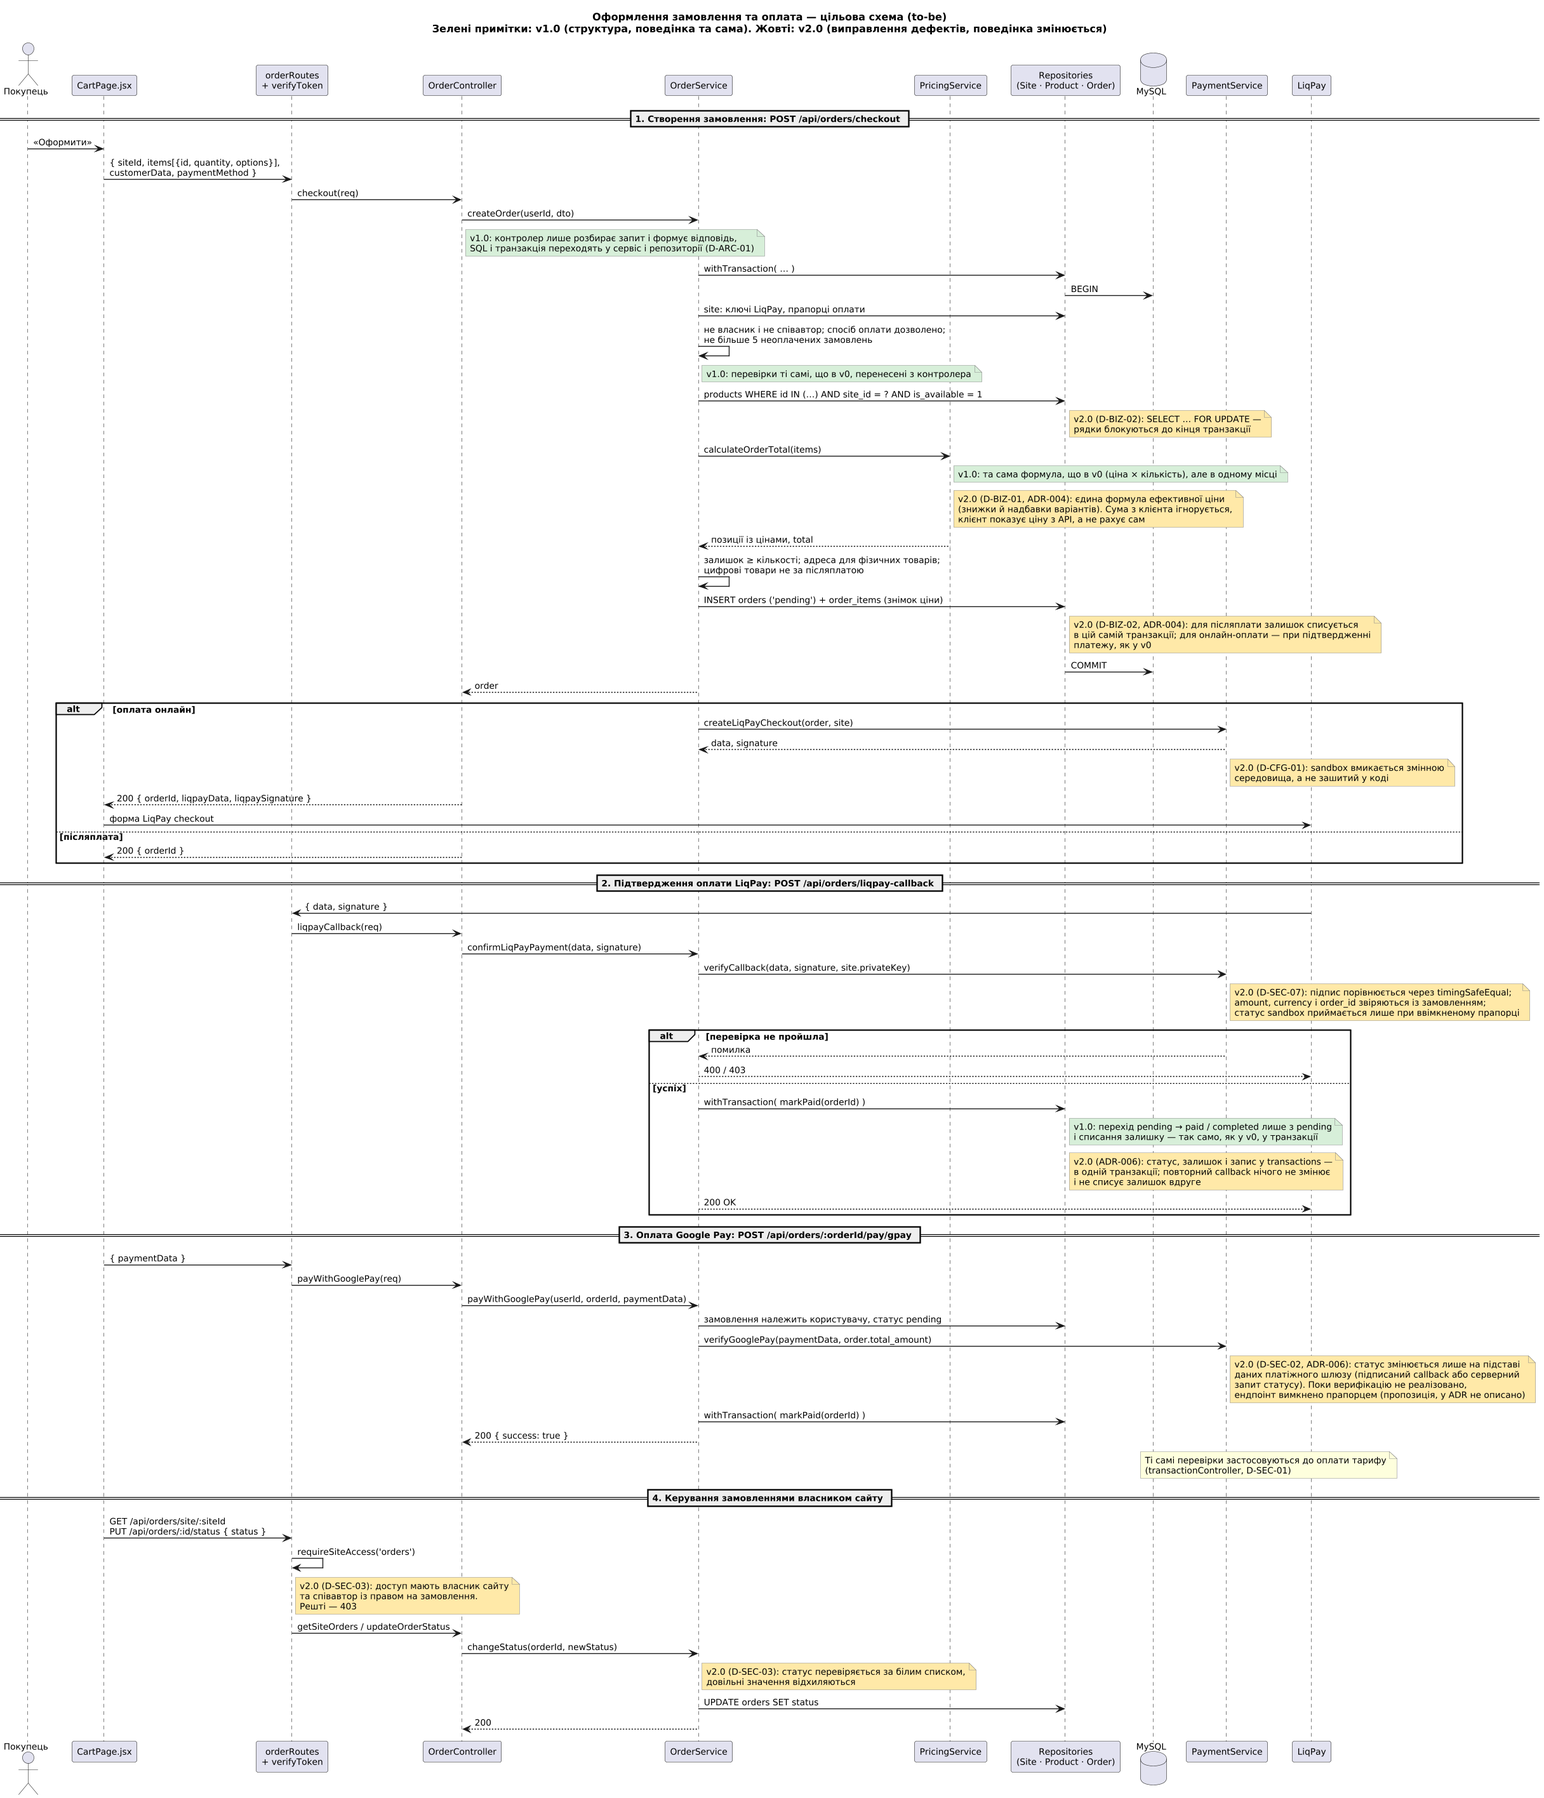
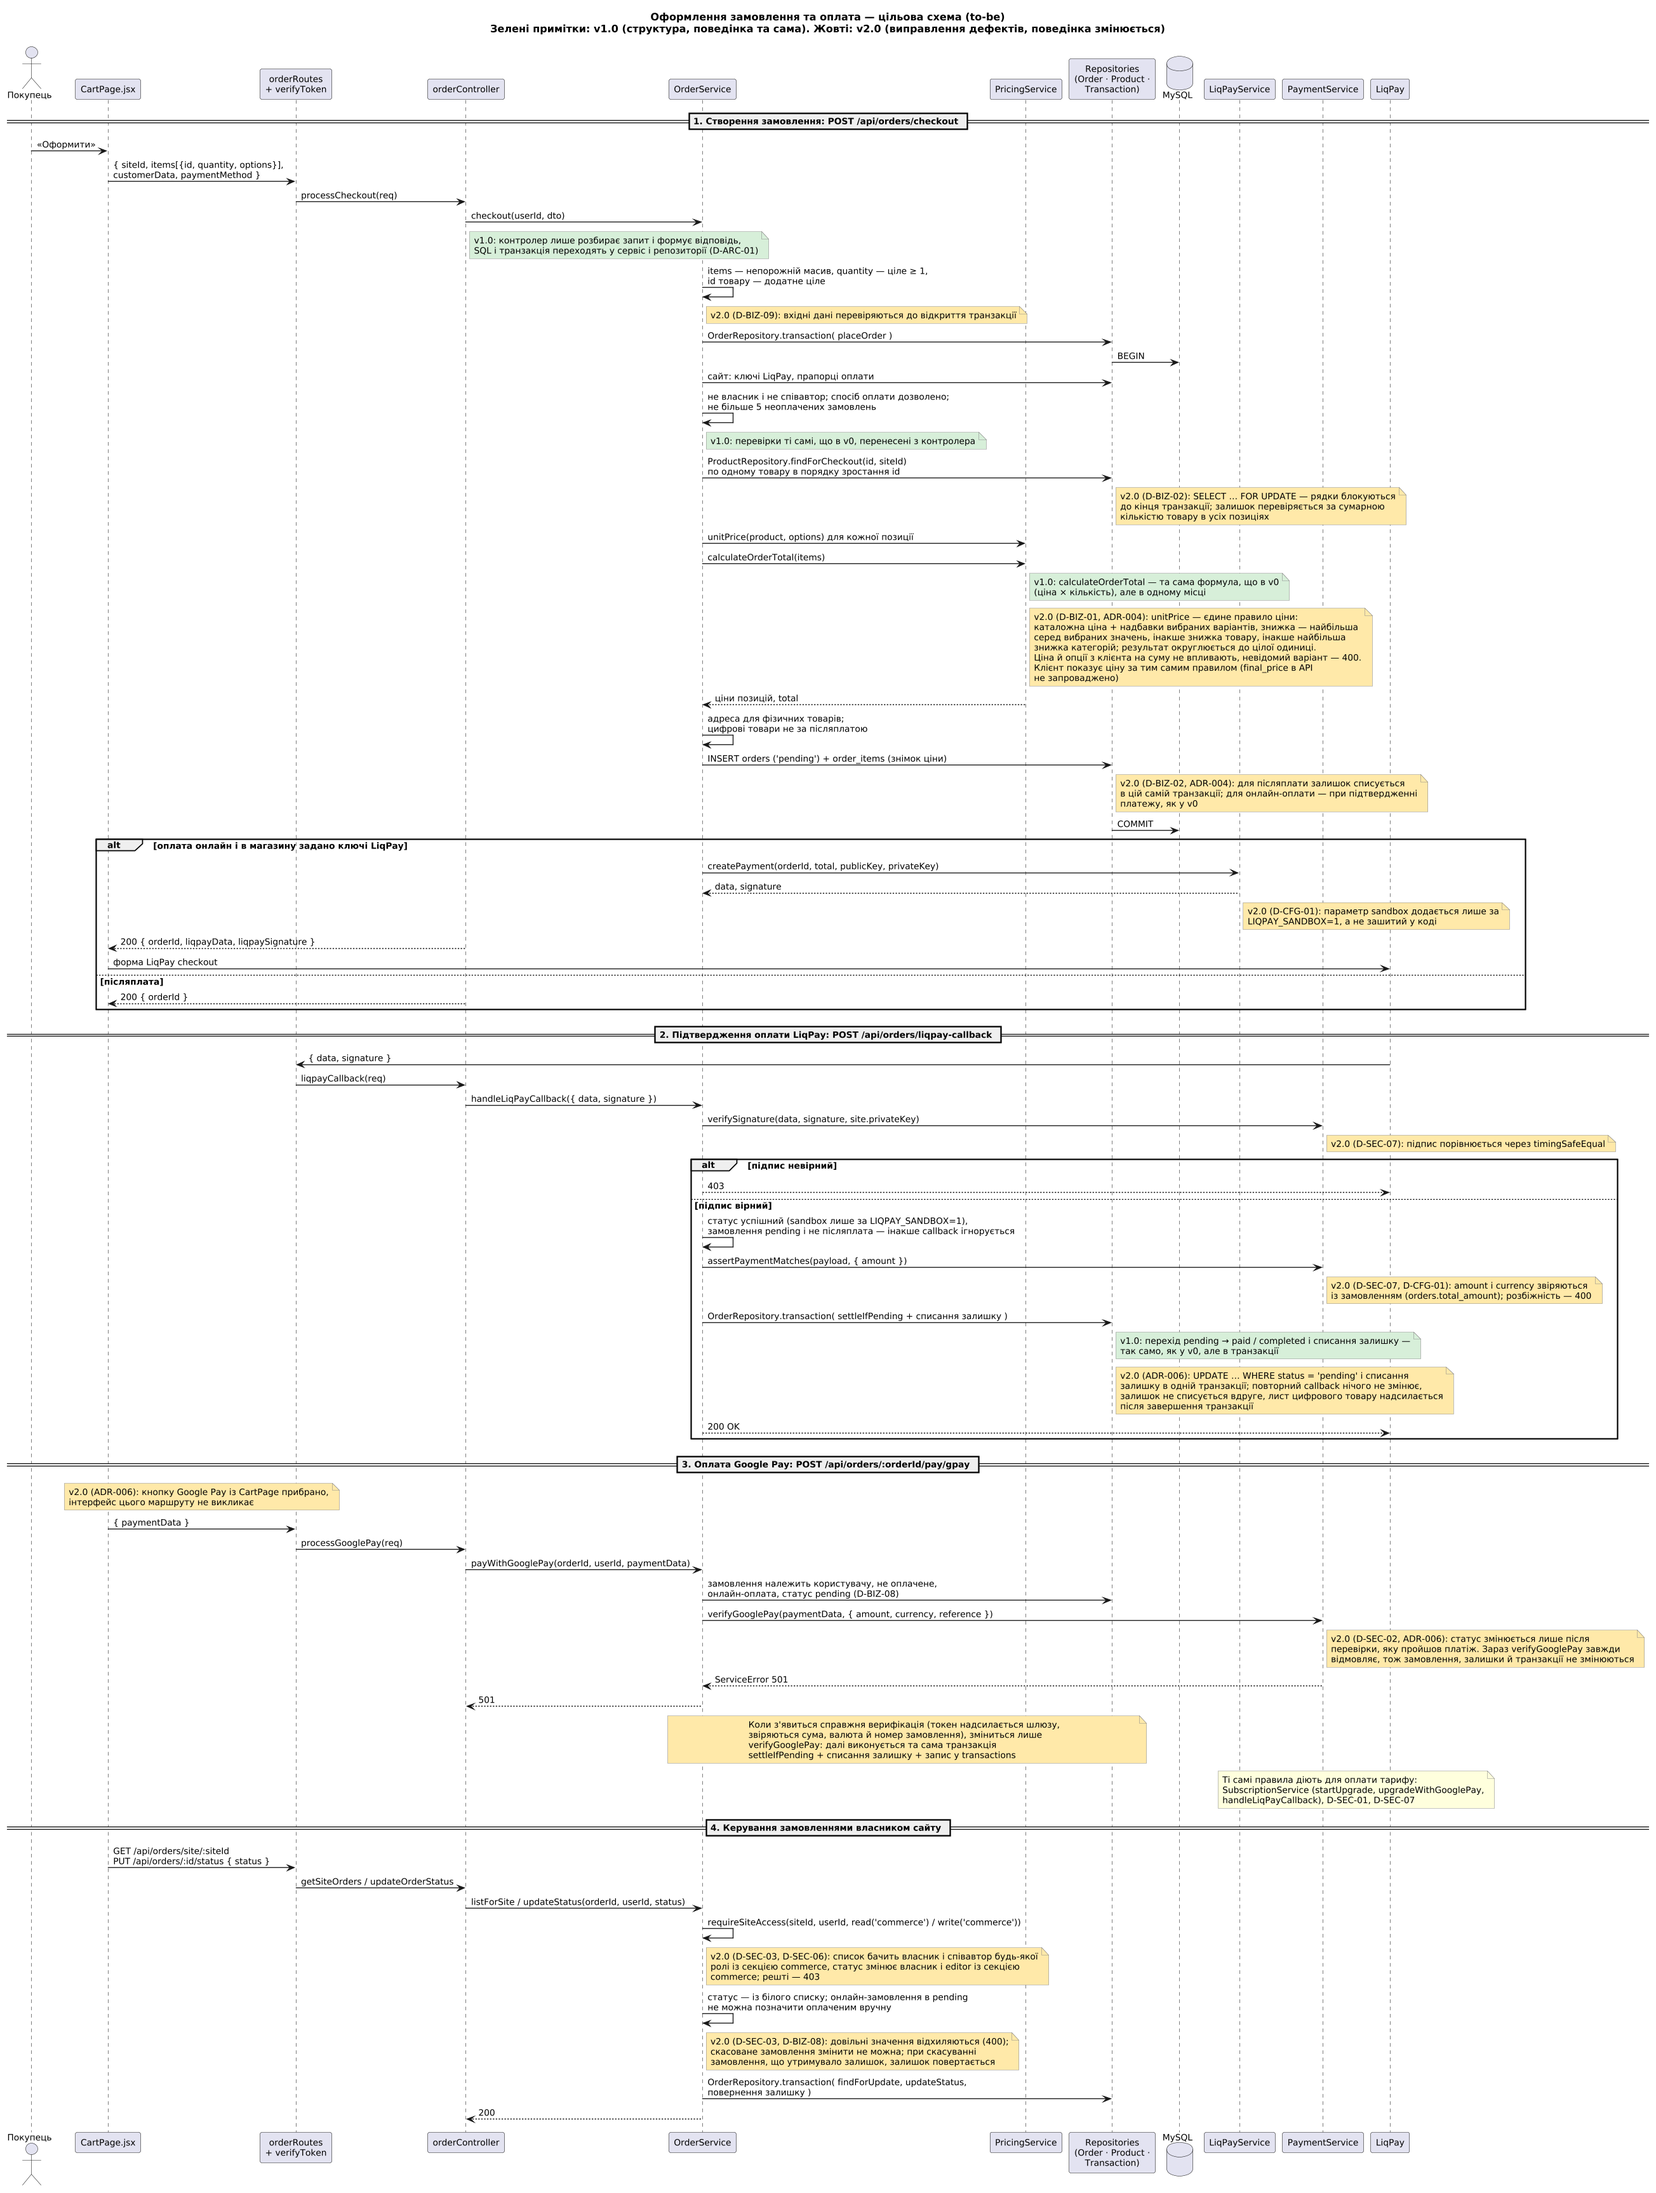
docs(design): align to-be diagrams and README with v2.0 code

diff --git a/docs/03-design/to-be/README.md b/docs/03-design/to-be/README.md
@@ -81,4 +81,4 @@
 java -jar plantuml.jar -tpng -Sdpi=110 docs/03-design/to-be/*.puml
 ```
 
-Потрібні Java, Graphviz (`dot`) і шрифт DejaVu Sans.
+Потрібні Java, Graphviz (`dot`) і шрифт DejaVu Sans. `plantuml.jar` — це сама програма PlantUML: її скачують зі сторінки релізів <https://github.com/plantuml/plantuml/releases> (файл `plantuml-<версія>.jar`, у команді його можна перейменувати або вказати повну назву). Поточні PNG згенеровано PlantUML 1.2026.8.
